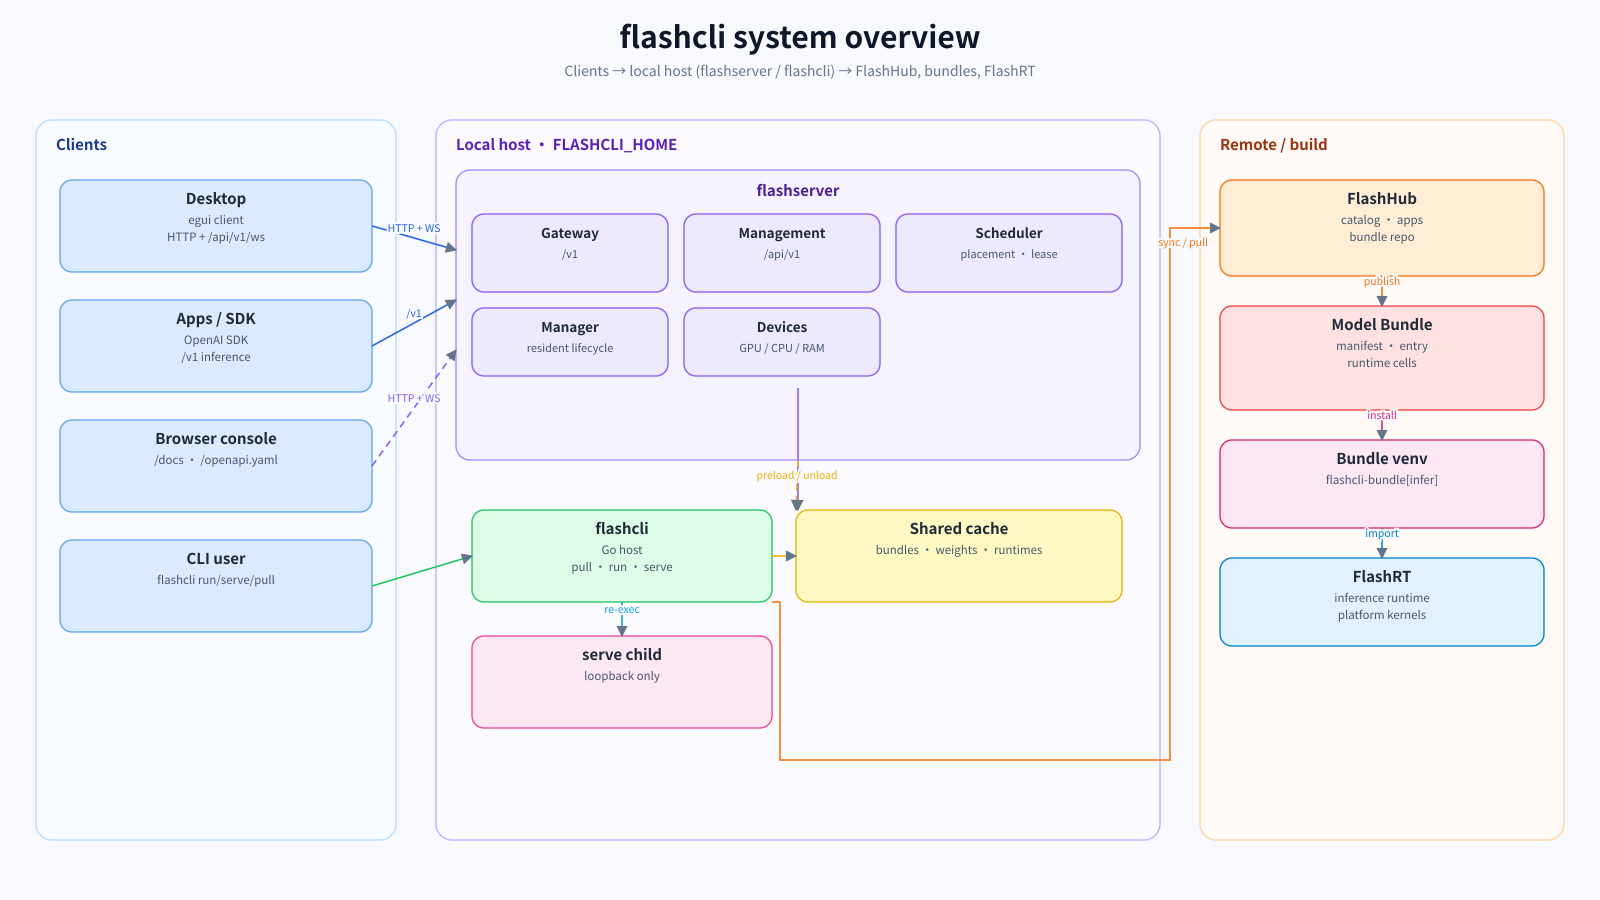
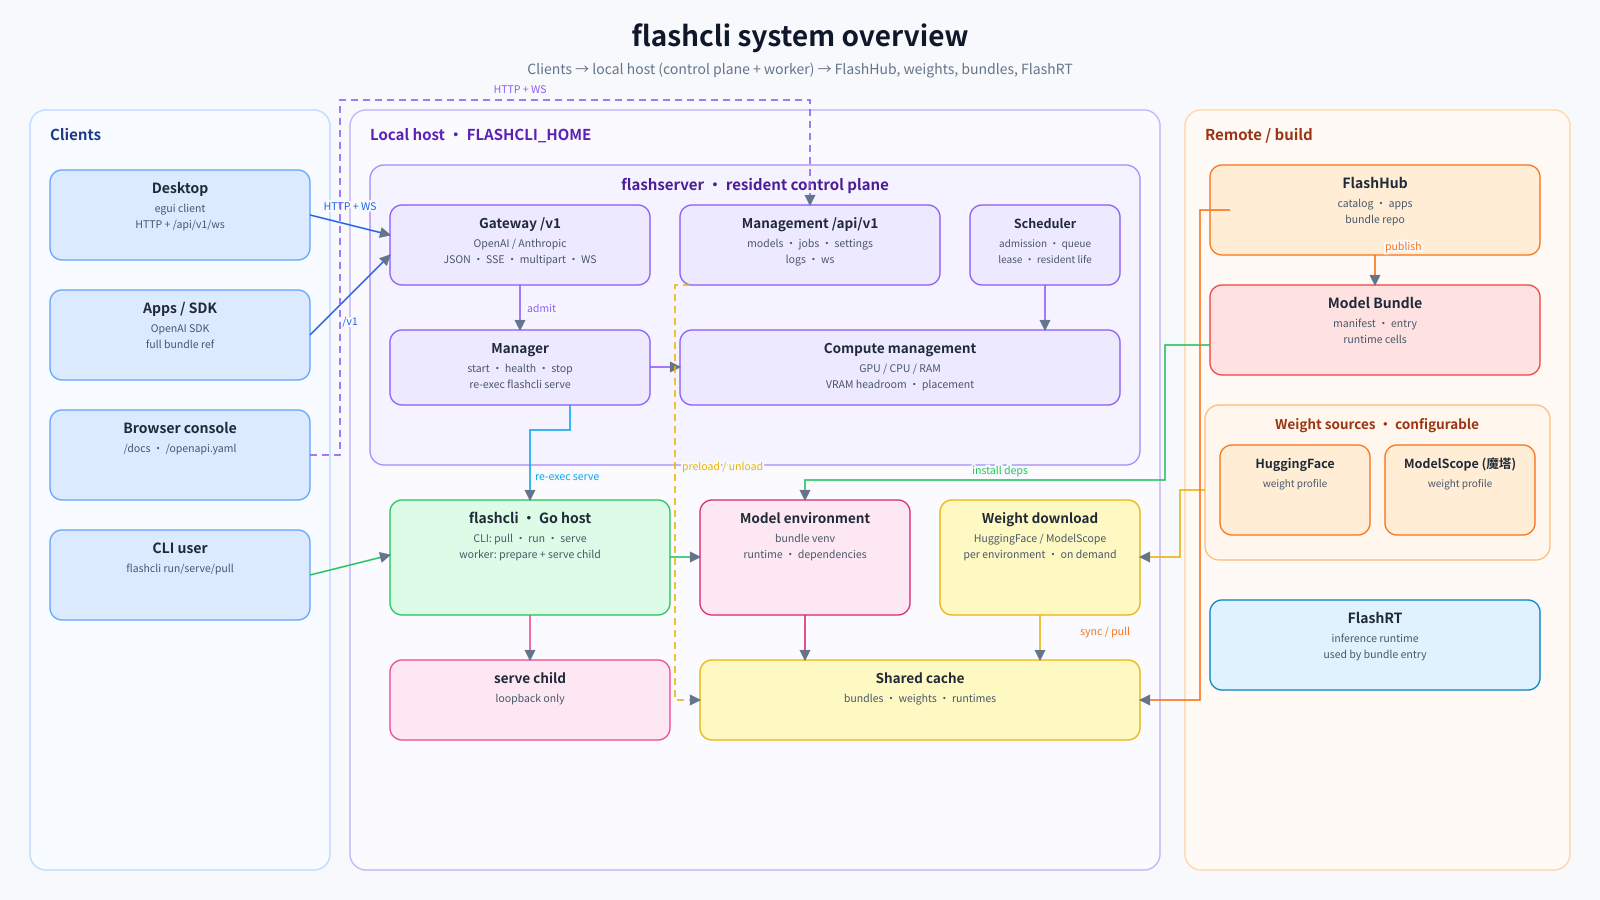
docs(architecture): clarify control plane, worker, compute and weight sources
- Separate flashserver control plane from the flashcli worker role and make Manager -> re-exec flashcli serve explicit.

- Add compute management, model environment installation, weight download, and configurable HuggingFace / ModelScope source cards.

- Show weights reaching the shared store on demand and keep FlashRT as a bundle-entry runtime.

diff --git a/docs/architecture.zh-CN.md b/docs/architecture.zh-CN.md
@@ -14,7 +14,7 @@ flashcli 是 FlashRT 的**分发与运行宿主**：解析 preset、从 FlashHub
 
 | 图 | 内容 |
 |---|---|
-| [系统总览](images/architecture-overview.zh-CN.svg) · [PNG](images/architecture-overview.zh-CN.png) | 客户端、flashserver、flashcli、共享缓存、FlashHub、Model Bundle、FlashRT |
+| [系统总览](images/architecture-overview.zh-CN.svg) · [PNG](images/architecture-overview.zh-CN.png) | 客户端、flashserver 控制面、flashcli 工作进程、算力/权重/环境、FlashHub、FlashRT |
 | [flashcli run/serve 流程](images/flashcli-flow.zh-CN.svg) · [PNG](images/flashcli-flow.zh-CN.png) | ref 解析、离线缓存、preflight、venv、权重、entry、run/serve |
 | [flashserver 网关/调度流程](images/flashserver-gateway-flow.zh-CN.svg) · [PNG](images/flashserver-gateway-flow.zh-CN.png) | `/v1` 请求、preload、placement、lease、proxy、释放、错误 |
 | [Model Bundle / FlashRT 运行时栈](images/bundle-runtime-stack.zh-CN.svg) · [PNG](images/bundle-runtime-stack.zh-CN.png) | FlashHub → manifest/entry/runtime cells → venv/权重 → FlashRT |

diff --git a/docs/architecture.md b/docs/architecture.md
@@ -14,7 +14,7 @@ It does **not** implement model forward passes or CUDA kernels; those live in bu
 
 | Diagram | Contents |
 |---|---|
-| [System overview](images/architecture-overview.en.svg) · [PNG](images/architecture-overview.en.png) | Clients, flashserver, flashcli, shared cache, FlashHub, Model Bundle, FlashRT |
+| [System overview](images/architecture-overview.en.svg) · [PNG](images/architecture-overview.en.png) | Clients, flashserver control plane, flashcli worker, compute/weights/environment, FlashHub, FlashRT |
 | [flashcli run/serve flow](images/flashcli-flow.en.svg) · [PNG](images/flashcli-flow.en.png) | Ref resolution, offline cache, preflight, venv, weights, entry, run/serve |
 | [flashserver gateway/scheduler flow](images/flashserver-gateway-flow.en.svg) · [PNG](images/flashserver-gateway-flow.en.png) | `/v1` request path, preload, placement, lease, proxy, release, errors |
 | [Model Bundle / FlashRT stack](images/bundle-runtime-stack.en.svg) · [PNG](images/bundle-runtime-stack.en.png) | FlashHub → bundle manifest/entry/runtime cells → venv/weights → FlashRT |
